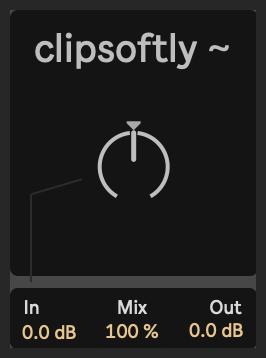
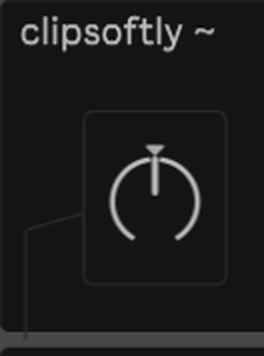
Update device screenshots reflecting aesthetic changes and add automated screenshot toolchain

diff --git a/tools/screenshot_batch.py b/tools/screenshot_batch.py
@@ -1,0 +1,206 @@
+"""
+Automated screenshot generator for OpenAir Max for Live devices.
+Captures pixel-perfect device presentation views directly from Cycling '74 Max 9
+without Max window frames, menu bars, or toolbars.
+Outputs Retina (2x) resolution PNGs directly into media/v0.0.1/
+"""
+
+import subprocess
+import time
+import os
+import glob
+import json
+import struct
+import sys
+import ctypes
+from ctypes import wintypes
+from PIL import Image
+
+sys.path.insert(0, '.')
+from tools.inspector import parse_amxd_patcher
+
+user32 = ctypes.windll.user32
+gdi32 = ctypes.windll.gdi32
+
+PW_CLIENTONLY = 1
+PW_RENDERFULLCONTENT = 2
+
+class BITMAPINFOHEADER(ctypes.Structure):
+    _fields_ = [
+        ("biSize", wintypes.DWORD),
+        ("biWidth", wintypes.LONG),
+        ("biHeight", wintypes.LONG),
+        ("biPlanes", wintypes.WORD),
+        ("biBitCount", wintypes.WORD),
+        ("biCompression", wintypes.DWORD),
+        ("biSizeImage", wintypes.DWORD),
+        ("biXPelsPerMeter", wintypes.LONG),
+        ("biYPelsPerMeter", wintypes.LONG),
+        ("biClrUsed", wintypes.DWORD),
+        ("biClrImportant", wintypes.DWORD),
+    ]
+
+class BITMAPINFO(ctypes.Structure):
+    _fields_ = [
+        ("bmiHeader", BITMAPINFOHEADER),
+        ("bmiColors", wintypes.DWORD * 3)
+    ]
+
+def capture_window_client(hwnd):
+    cr = wintypes.RECT()
+    user32.GetClientRect(hwnd, ctypes.byref(cr))
+    w, h = cr.right, cr.bottom
+    if w <= 0 or h <= 0:
+        return None
+
+    hwnd_dc = user32.GetDC(hwnd)
+    mfc_dc = gdi32.CreateCompatibleDC(hwnd_dc)
+    bitmap = gdi32.CreateCompatibleBitmap(hwnd_dc, w, h)
+    gdi32.SelectObject(mfc_dc, bitmap)
+
+    user32.PrintWindow(hwnd, mfc_dc, PW_RENDERFULLCONTENT | PW_CLIENTONLY)
+
+    bmpinfo = BITMAPINFO()
+    bmpinfo.bmiHeader.biSize = ctypes.sizeof(BITMAPINFOHEADER)
+    bmpinfo.bmiHeader.biWidth = w
+    bmpinfo.bmiHeader.biHeight = -h # top-down
+    bmpinfo.bmiHeader.biPlanes = 1
+    bmpinfo.bmiHeader.biBitCount = 32
+    bmpinfo.bmiHeader.biCompression = 0
+
+    buf = ctypes.create_string_buffer(w * h * 4)
+    gdi32.GetDIBits(mfc_dc, bitmap, 0, h, buf, ctypes.byref(bmpinfo), 0)
+
+    gdi32.DeleteObject(bitmap)
+    gdi32.DeleteDC(mfc_dc)
+    user32.ReleaseDC(hwnd, hwnd_dc)
+
+    return Image.frombuffer("RGBA", (w, h), buf, "raw", "BGRA", 0, 1)
+
+DEVICE_CONFIGS = {
+    'OA_totape8.amxd': (192, 179),
+    'OA_galactic.amxd': (142, 179),
+    'OA_Air4.amxd': (133, 179),
+    'OA_BassKit.amxd': (133, 179),
+    'OA_clipsoftly.amxd': (133, 179),
+    'OA_console0bus.amxd': (133, 179),
+    'OA_console0channel.amxd': (133, 179),
+    'OA_distance3.amxd': (133, 179),
+    'OA_purestconsolebus.amxd': (133, 179),
+    'OA_purestconsolechannel2.amxd': (133, 179),
+}
+
+def render_plugin_screenshot(dev_name, out_dir="media/v0.0.1"):
+    amxd_path = os.path.join("m4lplugins", dev_name)
+    if not os.path.isfile(amxd_path):
+        print(f"File not found: {amxd_path}")
+        return False
+
+    w, h = DEVICE_CONFIGS.get(dev_name, (133, 179))
+    base_name = os.path.splitext(dev_name)[0]
+    out_png = os.path.join(out_dir, f"{base_name}.png")
+
+    patcher = parse_amxd_patcher(amxd_path)
+    if not patcher:
+        print(f"Failed to parse {amxd_path}")
+        return False
+
+    p = json.loads(json.dumps(patcher))
+    p['toolbarvisible'] = 0
+    p['lefttoolbarpinned'] = 0
+    p['righttoolbarpinned'] = 0
+    p['toptoolbarpinned'] = 0
+    p['bottomtoolbarpinned'] = 0
+    p['devicewidth'] = float(w)
+    p['rect'] = [100.0, 100.0, float(w), float(h)]
+    p['openrect'] = [0.0, 0.0, float(w), float(h)]
+
+    json_bytes = json.dumps({'patcher': p}, indent=4).encode('utf-8')
+    ampf_hdr = (
+        b'ampf\x04\x00\x00\x00aaaameta\x04\x00\x00\x00\x00\x00\x00\x00ptch'
+        + struct.pack('<I', len(json_bytes))
+    )
+    temp_amxd = os.path.abspath(f'tools/_render_{dev_name}')
+    with open(temp_amxd, 'wb') as f:
+        f.write(ampf_hdr + json_bytes)
+
+    # Ensure no running Max process conflicts
+    subprocess.run(['taskkill', '/F', '/IM', 'Max.exe'], capture_output=True)
+    time.sleep(0.5)
+
+    max_exe = "C:/Program Files/Cycling '74/Max 9/Max.exe"
+    proc = subprocess.Popen([max_exe, temp_amxd])
+
+    target_hwnd = None
+    for _ in range(35):
+        time.sleep(0.15)
+        def enum_cb(hwnd, lParam):
+            nonlocal target_hwnd
+            pid = wintypes.DWORD()
+            user32.GetWindowThreadProcessId(hwnd, ctypes.byref(pid))
+            if pid.value == proc.pid:
+                buff = ctypes.create_unicode_buffer(512)
+                user32.GetWindowTextW(hwnd, buff, 512)
+                t = buff.value.lower()
+                if 'presentation' in t or '_render_' in t or base_name.lower() in t:
+                    cr = wintypes.RECT()
+                    user32.GetClientRect(hwnd, ctypes.byref(cr))
+                    if cr.right > 50 and cr.bottom > 50:
+                        target_hwnd = hwnd
+            return True
+        user32.EnumWindows(ctypes.WINFUNCTYPE(ctypes.c_bool, wintypes.HWND, wintypes.LPARAM)(enum_cb), 0)
+        if target_hwnd:
+            break
+
+    success = False
+    if target_hwnd:
+        # Allow GUI elements to finish initial paint
+        time.sleep(0.5)
+        img = capture_window_client(target_hwnd)
+        if img:
+            iw, ih = img.size
+            crop_w = min(iw, w)
+            crop_h = min(ih, h)
+            cropped = img.crop((0, 0, crop_w, crop_h))
+
+            # Upscale 2x for crisp Retina display on Web / GitHub
+            retina_img = cropped.resize((crop_w * 2, crop_h * 2), Image.Resampling.LANCZOS)
+            os.makedirs(out_dir, exist_ok=True)
+            retina_img.save(out_png)
+            print(f"Successfully generated {out_png} ({retina_img.size[0]}x{retina_img.size[1]})")
+            success = True
+    else:
+        print(f"Failed to find presentation window for {dev_name}")
+
+    proc.terminate()
+    try:
+        proc.wait(timeout=2)
+    except:
+        proc.kill()
+
+    try:
+        os.remove(temp_amxd)
+    except:
+        pass
+
+    return success
+
+def main():
+    print("=" * 65)
+    print("OpenAir Toolchain: Rendering High-Res Device Screenshots")
+    print("=" * 65)
+
+    plugins = sorted(list(DEVICE_CONFIGS.keys()))
+    success_count = 0
+    for p in plugins:
+        if render_plugin_screenshot(p):
+            success_count += 1
+        time.sleep(0.5)
+
+    # Final cleanup
+    subprocess.run(['taskkill', '/F', '/IM', 'Max.exe'], capture_output=True)
+
+    print(f"\nRender complete: {success_count}/{len(plugins)} screenshots generated successfully.")
+
+if __name__ == '__main__':
+    main()

diff --git a/tools/cli.py b/tools/cli.py
@@ -22,6 +22,7 @@ if WORKSPACE_ROOT not in sys.path:
 from tools.builder import build_release_package
 from tools.inspector import inspect_workspace
 from tools.packager import freeze_device, unfreeze_device
+from tools.screenshot_batch import render_plugin_screenshot, DEVICE_CONFIGS
 from tools.verifier import verify_release_zip
 
 
@@ -128,6 +129,27 @@ def cmd_unfreeze(args):
 
     print(f"\nUnfreezing complete! {success_count}/{len(devices_to_unfreeze)} device(s) converted to lightweight dev format.")
     return 0 if success_count == len(devices_to_unfreeze) else 1
+
+
+def cmd_screenshot(args):
+    print("=" * 70)
+    print("OpenAir Toolchain: Rendering High-Res Device Screenshots")
+    print("=" * 70)
+
+    out_dir = args.out_dir or os.path.join(WORKSPACE_ROOT, "media", "v0.0.1")
+    plugins = [args.device] if args.device else sorted(list(DEVICE_CONFIGS.keys()))
+
+    success_count = 0
+    for p in plugins:
+        if render_plugin_screenshot(p, out_dir=out_dir):
+            success_count += 1
+        time.sleep(0.5)
+
+    import subprocess
+    subprocess.run(["taskkill", "/F", "/IM", "Max.exe"], capture_output=True)
+
+    print(f"\nScreenshot render complete: {success_count}/{len(plugins)} captured successfully to {out_dir}")
+    return 0 if success_count == len(plugins) else 1
 
 
 def cmd_build(args):
@@ -254,6 +276,11 @@ def main():
     verify_parser = subparsers.add_parser("verify", help="Verify a release ZIP package")
     verify_parser.add_argument("zip_path", nargs="?", help="Path to ZIP file (defaults to latest in release/)")
 
+    # Screenshot command
+    screenshot_parser = subparsers.add_parser("screenshot", help="Render clean high-res device screenshots without borders")
+    screenshot_parser.add_argument("--device", help="Specific device name (e.g. OA_totape8.amxd)")
+    screenshot_parser.add_argument("--out-dir", help="Output directory (defaults to media/v0.0.1/)")
+
     args = parser.parse_args()
     if args.command == "inspect":
         sys.exit(cmd_inspect(args))
@@ -261,6 +288,8 @@ def main():
         sys.exit(cmd_freeze(args))
     elif args.command == "unfreeze":
         sys.exit(cmd_unfreeze(args))
+    elif args.command == "screenshot":
+        sys.exit(cmd_screenshot(args))
     elif args.command == "build":
         sys.exit(cmd_build(args))
     elif args.command == "verify":
